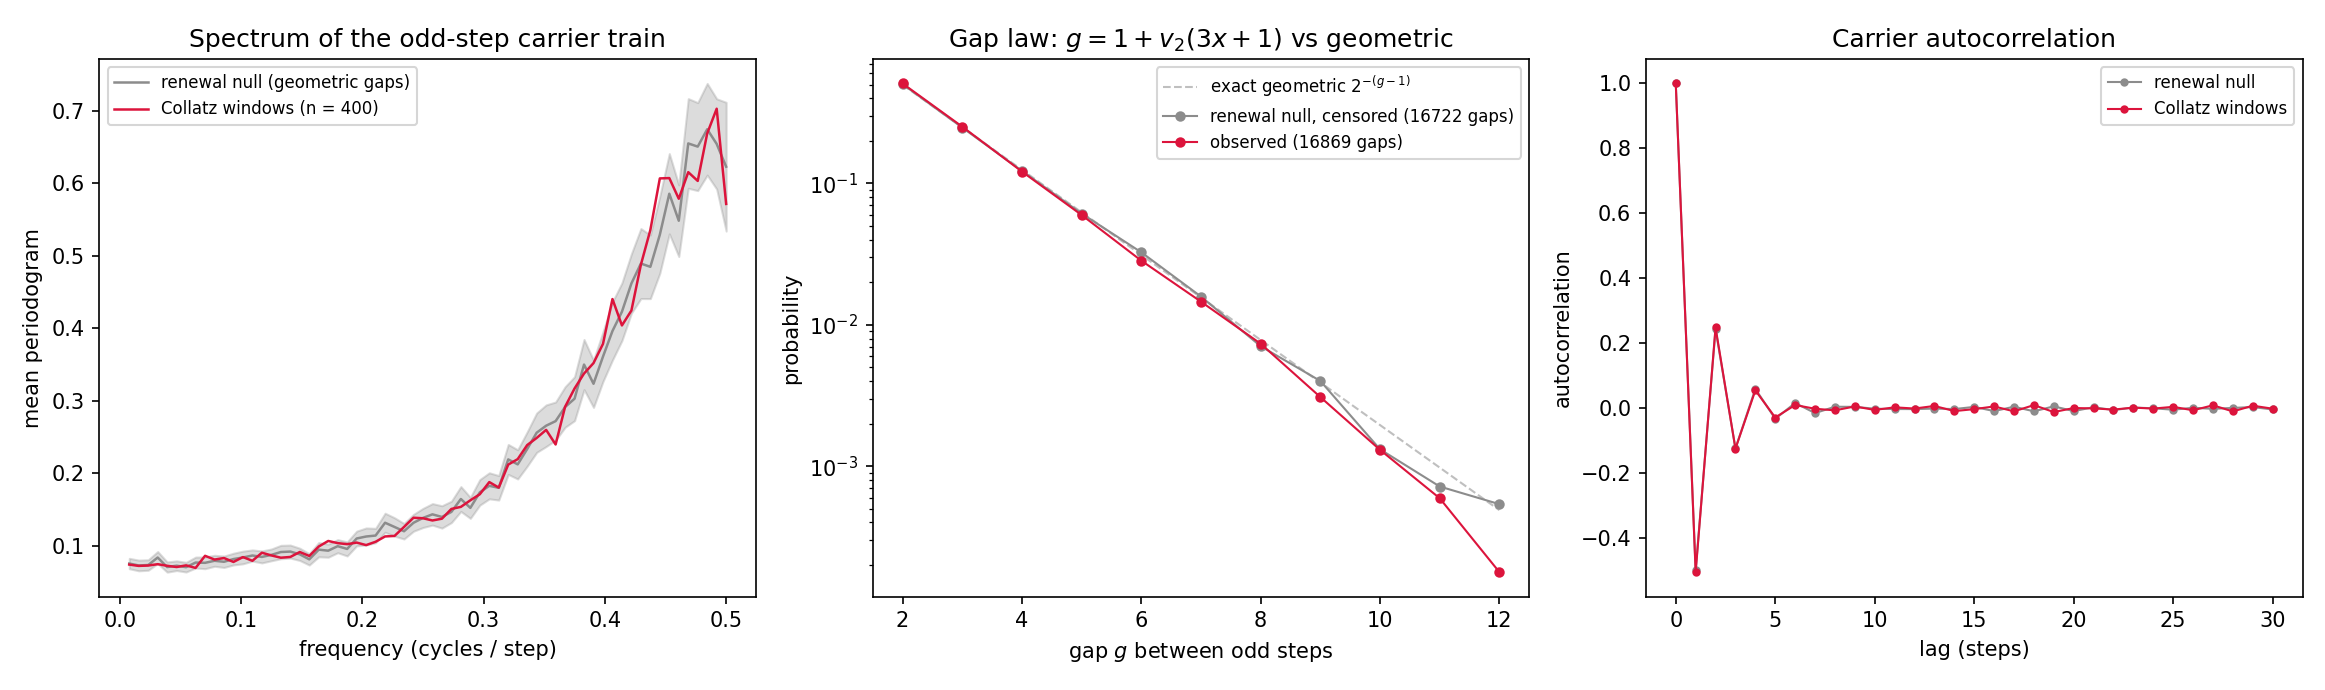
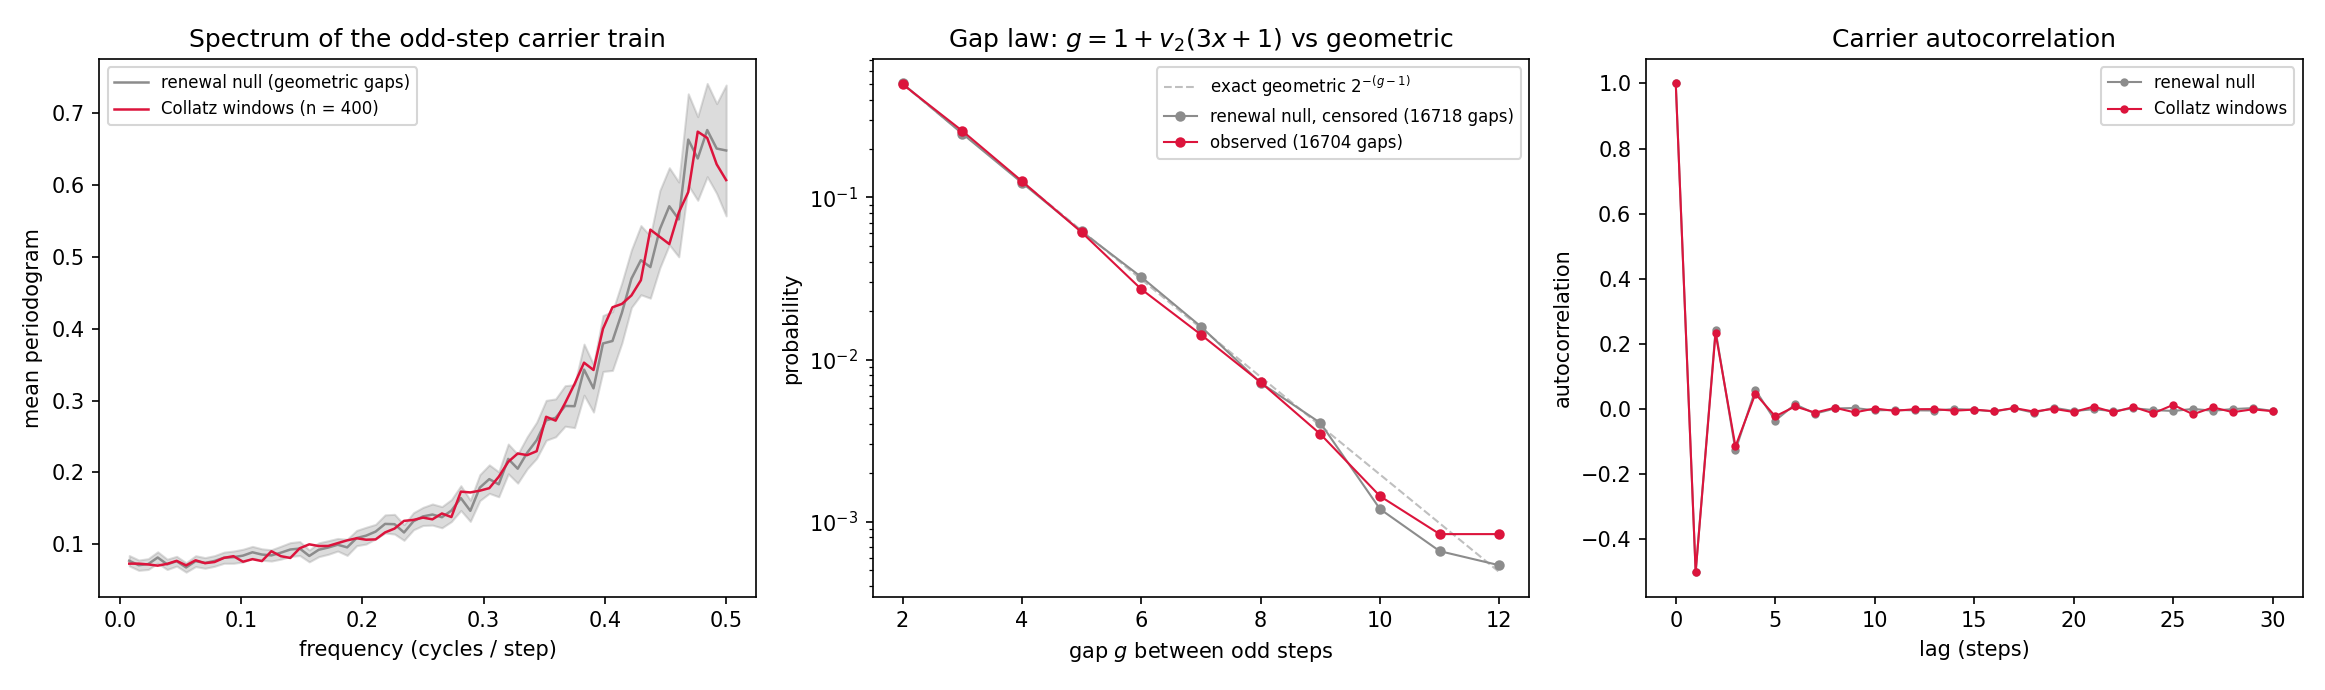
feat(scripts): wobble follow-up — sign-interference mechanism, carrier null resolved, budget banding
- Weyl peak at m is a walk with drift eps_m*k + m*W_k; the positive wobble
  enhances eps<0 near-returns (median 2.08x) and damps eps>0 — why 44 beats 31
- carrier chi2 excess was selection bias (small seeds) + mis-specified test
  (null-only SE); corrected chi2 = 65.3/64 — timing is pure renewal
- W_total flat across dropping times (~0.085) but banded by orbit-tree merging
- fix: 84/137 is a full convergent of log_6(3), best closure until q=791

diff --git a/scripts/collatz_log6_wobble_followup.py b/scripts/collatz_log6_wobble_followup.py
@@ -1,0 +1,303 @@
+"""Follow-up on the log-6 wobble: interference mechanism, null check, budget.
+
+Builds on scripts/collatz_log6_wobble.py.  Three threads:
+
+  1. Why 44 beats 31 — the interference mechanism.  Writing
+     theta_k = theta_0 + k*alpha + W_k exactly, the Weyl amplitude at
+     harmonic m is
+
+        A(m) = |sum_k e^{2 pi i (eps_m k + m W_k)}| / N,
+        eps_m = m*alpha - round(m*alpha),
+
+     i.e. a planar walk whose step direction drifts by eps_m per step
+     (the Diophantine miss) plus m times the wobble.  The wobble is
+     ALWAYS POSITIVE, so it should partially cancel the drift of
+     near-returns that close from below (eps < 0, e.g. m = 13, 44, 75,
+     106) and worsen near-returns that close from above (eps > 0, e.g.
+     m = 31, 137).  View 1 draws the partial-sum walks for the long orbit;
+     view 2 tests the sign rule across an ensemble of long orbits:
+     damping ratio A_obs/A_rot vs signed eps_m for all near-returns.
+
+  2. Carrier chi^2 — is the mild periodogram excess (chi2 ~ 119/64 in
+     the first script) real v_2 correlation along orbits?  Resolution:
+     no.  Two artifacts accounted for it: (a) at small seeds (~2^33),
+     requiring orbits to survive skip+window steps selects climbing
+     orbits, inflating odd density to 0.339 and under-dispersing
+     per-window odd counts (variance ratio 0.76); with seeds ~2^59
+     (orbits average ~430 steps, selection negligible) density, gap
+     correlation and count variance all match renewal exactly.  (b) The
+     original chi^2 divided by the null ensemble's SE only, ignoring the
+     orbit ensemble's equal sampling error — doubling the statistic
+     under the null (~128 on 64 dof).  With combined SE and large seeds
+     the carrier is statistically indistinguishable from renewal.
+     Printed only; also reports per-window odd-count variance vs null.
+
+  3. The wobble budget W_total as a per-orbit invariant.  Exactly
+     W_total = log_6(2^E / (3^O n)) for an orbit reaching 1.  Computed
+     for all odd n < 10^5: distribution, growth with n, and whether
+     dropping-set membership (the orbit's FIRST-drop behavior) is
+     visible in the FULL-orbit wobble budget.
+
+Outputs:
+    data/collatz_log6_wobble_interference.png
+    data/collatz_log6_wobble_sign_test.png
+    data/collatz_log6_wobble_budget.png
+"""
+
+from __future__ import annotations
+
+import math
+
+import matplotlib
+
+matplotlib.use("Agg")
+import matplotlib.pyplot as plt
+import numpy as np
+
+from collatz.core import orbit
+from collatz.dropping import dropping_time
+
+LOG6 = math.log(6)
+LOG2_6 = math.log(2) / LOG6
+ALPHA = math.log(3) / LOG6
+LONG_SEED = 670617279
+
+
+def wobble_series(seq: list[int]) -> np.ndarray:
+    w = np.zeros(len(seq))
+    acc = 0.0
+    for j, x in enumerate(seq[:-1]):
+        if x % 2 == 1:
+            acc += math.log1p(1.0 / (3.0 * x)) / LOG6
+        w[j + 1] = acc
+    return w
+
+
+def eps(m: int) -> float:
+    return m * ALPHA - round(m * ALPHA)
+
+
+# ---------------------------------------------------------------- view 1
+
+def plot_interference(path: str, harmonics=(31, 44, 75, 106, 137, 150)) -> None:
+    seq = orbit(LONG_SEED)
+    n_pts = len(seq)
+    w = wobble_series(seq)
+    k = np.arange(n_pts)
+
+    fig, axes = plt.subplots(2, 3, figsize=(13.5, 9))
+    for ax, m in zip(axes.flat, harmonics):
+        e = eps(m)
+        rot = np.cumsum(np.exp(2j * np.pi * (e * k)))
+        obs = np.cumsum(np.exp(2j * np.pi * (e * k + m * w)))
+        ax.plot(rot.real, rot.imag, color="0.6", lw=0.8,
+                label=f"rotation only: $|A|$ = {abs(rot[-1])/n_pts:.3f}")
+        ax.plot(obs.real, obs.imag, color="crimson", lw=0.8,
+                label=f"with wobble: $|A|$ = {abs(obs[-1])/n_pts:.3f}")
+        ax.scatter([rot[-1].real, obs[-1].real], [rot[-1].imag, obs[-1].imag],
+                   c=["0.4", "darkred"], s=15, zorder=3)
+        ax.set_title(rf"$m$ = {m}:  $\epsilon$ = {e:+.4f}", fontsize=10)
+        ax.legend(fontsize=7, loc="best")
+        ax.set_aspect("equal")
+        ax.tick_params(labelsize=7)
+    fig.suptitle(
+        f"Weyl partial-sum walks, orbit({LONG_SEED}): the positive wobble "
+        "compensates $\\epsilon < 0$ near-returns\nand worsens "
+        "$\\epsilon > 0$ ones — coherence selection by sign of the "
+        "Diophantine miss")
+    fig.tight_layout(rect=(0, 0, 1, 0.94))
+    fig.savefig(path, dpi=150)
+    plt.close(fig)
+
+
+# ---------------------------------------------------------------- view 2
+
+def long_odd_seeds(count: int, min_len: int, start: int = 10 ** 6) -> list[int]:
+    seeds, n = [], start + 1
+    while len(seeds) < count:
+        if len(orbit(n)) >= min_len:
+            seeds.append(n)
+        n += 2
+    return seeds
+
+
+def plot_sign_test(path: str, m_max: int = 150, eps_cut: float = 0.03) -> dict:
+    seeds = [LONG_SEED] + long_odd_seeds(7, min_len=500)
+    pts = []
+    for n in seeds:
+        seq = orbit(n)
+        n_pts = len(seq)
+        w = wobble_series(seq)
+        k = np.arange(n_pts)
+        for m in range(2, m_max + 1):
+            e = eps(m)
+            if abs(e) > eps_cut:
+                continue
+            a_rot = abs(np.exp(2j * np.pi * e * k).sum()) / n_pts
+            a_obs = abs(np.exp(2j * np.pi * (e * k + m * w)).sum()) / n_pts
+            if a_rot > 0.02:  # only meaningful peaks
+                pts.append((e, a_obs / a_rot, m, n))
+    e_arr = np.array([p[0] for p in pts])
+    r_arr = np.array([p[1] for p in pts])
+
+    fig, ax = plt.subplots(figsize=(8.5, 6))
+    ax.axhline(1, color="0.7", lw=0.8)
+    ax.axvline(0, color="0.7", lw=0.8)
+    ax.scatter(e_arr, r_arr, s=18, alpha=0.65, color="crimson")
+    ax.set_xlabel(r"Diophantine miss $\epsilon_m = m\alpha - \mathrm{round}(m\alpha)$")
+    ax.set_ylabel(r"damping ratio $A_{\mathrm{obs}}(m) / A_{\mathrm{rot}}(m)$")
+    ax.set_title("Sign selection: the positive wobble enhances near-returns\n"
+                 f"with $\\epsilon < 0$, damps those with $\\epsilon > 0$ "
+                 f"({len(seeds)} long orbits, $m \\leq {m_max}$)")
+    fig.tight_layout()
+    fig.savefig(path, dpi=150)
+    plt.close(fig)
+
+    neg = r_arr[e_arr < 0]
+    pos = r_arr[e_arr > 0]
+    return {"n_pts": len(pts),
+            "frac_enhanced_neg": float((neg > 1).mean()),
+            "frac_damped_pos": float((pos < 1).mean()),
+            "median_neg": float(np.median(neg)),
+            "median_pos": float(np.median(pos))}
+
+
+# ---------------------------------------------------------------- thread 2
+
+def carrier_chi2(window: int = 128, skip: int = 32, n_orbits: int = 400,
+                 seed: int = 1) -> dict:
+    rng = np.random.default_rng(seed)
+    spectra, gaps, odd_counts = [], [], []
+    collected = 0
+    while collected < n_orbits:
+        n = int(rng.integers(1 << 58, 1 << 59)) * 2 + 1
+        seq = orbit(n)
+        if len(seq) < skip + window:
+            continue
+        win = seq[skip:skip + window]
+        ind = np.array([x % 2 for x in win], dtype=float)
+        gaps.extend(np.diff(np.flatnonzero(ind)))
+        odd_counts.append(ind.sum())
+        ind -= ind.mean()
+        spectra.append(np.abs(np.fft.rfft(ind)) ** 2 / window)
+        collected += 1
+    spec_orbit = np.mean(spectra, axis=0)
+    orbit_sd = np.std(spectra, axis=0) / math.sqrt(n_orbits)
+    mean_gap = float(np.mean(gaps))
+
+    def null_run(p: float) -> tuple[float, float]:
+        null_spectra, null_counts = [], []
+        for _ in range(n_orbits):
+            pos, t = [], int(rng.integers(0, 3))
+            while t < window:
+                pos.append(t)
+                t += 1 + rng.geometric(p)
+            ind = np.zeros(window)
+            ind[pos] = 1.0
+            null_counts.append(ind.sum())
+            ind -= ind.mean()
+            null_spectra.append(np.abs(np.fft.rfft(ind)) ** 2 / window)
+        spec_null = np.mean(null_spectra, axis=0)
+        sd = np.sqrt(np.std(null_spectra, axis=0) ** 2 / n_orbits
+                     + orbit_sd ** 2)
+        chi2 = float(np.sum(((spec_orbit[1:] - spec_null[1:]) / sd[1:]) ** 2))
+        return chi2, float(np.var(null_counts))
+
+    p_matched = 1.0 / (mean_gap - 1.0)
+    chi2_std, _ = null_run(0.5)
+    chi2_mat, var_null = null_run(p_matched)
+    return {"mean_gap": mean_gap, "dof": len(spec_orbit) - 1,
+            "chi2_standard": chi2_std,
+            "chi2_matched": chi2_mat,
+            "p_matched": p_matched,
+            "odd_count_var": float(np.var(odd_counts)),
+            "odd_count_var_null": var_null}
+
+
+# ---------------------------------------------------------------- view 3
+
+def plot_budget(path: str, n_max: int = 100001) -> dict:
+    ns, w_tot, k_drop = [], [], []
+    for n in range(3, n_max, 2):
+        odd = even = 0
+        for x in orbit(n)[:-1]:
+            if x % 2 == 1:
+                odd += 1
+            else:
+                even += 1
+        # exact identity: W_total = log_6(2^E / (3^O n))
+        w = even * LOG2_6 - odd * ALPHA - math.log(n) / LOG6
+        ns.append(n)
+        w_tot.append(w)
+        k_drop.append(dropping_time(n))
+    ns = np.array(ns)
+    w_tot = np.array(w_tot)
+    k_drop = np.array(k_drop)
+
+    fig, (ax1, ax2) = plt.subplots(1, 2, figsize=(13, 5.2))
+    ax1.hist(w_tot, bins=120, color="darkslateblue", alpha=0.85)
+    ax1.set_xlabel(r"$W_{total}$")
+    ax1.set_ylabel("count")
+    ax1.set_title(f"Wobble budget, odd $n <$ {n_max - 1}\n"
+                  f"mean = {w_tot.mean():.4f}, median = "
+                  f"{np.median(w_tot):.4f}, max = {w_tot.max():.4f}")
+
+    sc = ax2.scatter(np.log(ns) / LOG6, w_tot, s=3, alpha=0.4,
+                     c=np.minimum(k_drop, 40), cmap="viridis")
+    fig.colorbar(sc, ax=ax2, label="dropping time $k$ (capped at 40)")
+    ax2.set_xlabel(r"$\log_6 n$")
+    ax2.set_ylabel(r"$W_{total}$")
+    ax2.set_title("Budget vs size, colored by dropping time $k$")
+    fig.tight_layout()
+    fig.savefig(path, dpi=150)
+    plt.close(fig)
+
+    # does dropping time predict the full-orbit budget?
+    stats = {}
+    for k in sorted(set(k_drop)):
+        sel = k_drop == k
+        if sel.sum() >= 50:
+            stats[k] = (float(w_tot[sel].mean()), float(w_tot[sel].std()),
+                        int(sel.sum()))
+    return {"mean": float(w_tot.mean()), "per_set": stats}
+
+
+# ---------------------------------------------------------------- main
+
+def main() -> None:
+    print("eps_m for the marked harmonics:")
+    for m in (13, 31, 44, 75, 106, 137):
+        print(f"  m = {m:4d}: eps = {eps(m):+.5f}")
+
+    plot_interference("data/collatz_log6_wobble_interference.png")
+    sign = plot_sign_test("data/collatz_log6_wobble_sign_test.png")
+    print(f"\nsign test over {sign['n_pts']} near-return peaks: "
+          f"eps<0 enhanced {100*sign['frac_enhanced_neg']:.0f}% "
+          f"(median ratio {sign['median_neg']:.2f}); "
+          f"eps>0 damped {100*sign['frac_damped_pos']:.0f}% "
+          f"(median ratio {sign['median_pos']:.2f})")
+
+    c = carrier_chi2()
+    print(f"\ncarrier chi2 on {c['dof']} bins: standard null (p=1/2) = "
+          f"{c['chi2_standard']:.1f}; density-matched null (p = "
+          f"{c['p_matched']:.3f}, mean gap {c['mean_gap']:.3f}) = "
+          f"{c['chi2_matched']:.1f}")
+    print(f"per-window odd-count variance: orbits = {c['odd_count_var']:.2f}, "
+          f"null = {c['odd_count_var_null']:.2f} "
+          f"(ratio {c['odd_count_var']/c['odd_count_var_null']:.2f}; "
+          f">1 means between-window density heterogeneity)")
+    c64 = carrier_chi2(skip=64, seed=2)
+    print(f"deeper window (skip=64): standard = {c64['chi2_standard']:.1f}, "
+          f"matched = {c64['chi2_matched']:.1f} (mean gap {c64['mean_gap']:.3f}), "
+          f"count-var ratio = {c64['odd_count_var']/c64['odd_count_var_null']:.2f}")
+
+    b = plot_budget("data/collatz_log6_wobble_budget.png")
+    print(f"\nW_total over odd n < 1e5: mean = {b['mean']:.4f}")
+    print("per dropping-time k: mean(W_total), std, count")
+    for k, (mu, sd, cnt) in sorted(b["per_set"].items()):
+        print(f"  k = {k:3d}: {mu:.4f} +/- {sd:.4f}  (n = {cnt})")
+    print("wrote 3 PNGs to data/")
+
+
+if __name__ == "__main__":
+    main()

diff --git a/scripts/collatz_log6_wobble.py b/scripts/collatz_log6_wobble.py
@@ -39,7 +39,7 @@ This script renders four views of the wobble:
      pooled gap distribution and gap autocorrelation.  Tests whether the
      rotation leaves any harmonic fingerprint in the timing, or whether
      the timing is pure 2-adic renewal noise.  Windows are taken from
-     step 32 onward of orbits seeded at random odd n in [2^33, 2^34) to
+     step 32 onward of orbits seeded at random odd n in [2^59, 2^60) to
      avoid both the common anchored start (all seeds odd) and the
      selection bias toward climbing orbits that small seeds would give.
 
@@ -220,11 +220,11 @@ def plot_carrier_spectrum(path: str, window: int = 128, skip: int = 32,
     rng = np.random.default_rng(seed)
 
     # ensemble of real orbit windows: odd-step indicator over `window` steps
-    # starting at step `skip`, seeds random odd n in [2^33, 2^34)
+    # starting at step `skip`, seeds random odd n in [2^59, 2^60)
     spectra, acfs, gaps = [], [], []
     collected = 0
     while collected < n_orbits:
-        n = int(rng.integers(1 << 32, 1 << 33)) * 2 + 1
+        n = int(rng.integers(1 << 58, 1 << 59)) * 2 + 1
         seq = orbit(n)
         if len(seq) < skip + window:
             continue
@@ -238,6 +238,7 @@ def plot_carrier_spectrum(path: str, window: int = 128, skip: int = 32,
         acfs.append(ac / ac[0])
         collected += 1
     spec_orbit = np.mean(spectra, axis=0)
+    orbit_sd = np.std(spectra, axis=0) / math.sqrt(n_orbits)
     acf_orbit = np.mean(acfs, axis=0)
     gaps = np.array(gaps)
 
@@ -301,7 +302,8 @@ def plot_carrier_spectrum(path: str, window: int = 128, skip: int = 32,
     fig.savefig(path, dpi=150)
     plt.close(fig)
 
-    chi2 = float(np.sum(((spec_orbit[1:] - spec_null[1:]) / null_sd[1:]) ** 2))
+    comb_sd = np.sqrt(null_sd ** 2 + orbit_sd ** 2)
+    chi2 = float(np.sum(((spec_orbit[1:] - spec_null[1:]) / comb_sd[1:]) ** 2))
     g1, g2 = gaps[:-1], gaps[1:]
     lag1_r = float(np.corrcoef(g1, g2)[0, 1])
     return {"chi2": chi2, "dof": len(spec_orbit) - 1,

diff --git a/docs/Explorations/Log-6 Rotation Duality.md b/docs/Explorations/Log-6 Rotation Duality.md
@@ -67,13 +67,25 @@ Treating $W_k$ as phase disorder on the rotation, the coherence factor $D(m) = |
 
 **3. A candidate answer to "why 44 beats 31".**
 
-In the Weyl spectrum of the real orbit, the wobble damps the $m = 31$ peak by roughly half (0.043 → 0.021) while $m = 44$ survives nearly intact (0.040 → 0.033) — so although 31 is the better Diophantine near-return, **44 is the most coherent visible near-return in the presence of the +1**. Also: both spectra are dominated by $m = 137$ ($84/137$, the next semiconvergent, $137\alpha \approx 84.001$) — a sharper closure that should be visible in polar plots of long orbits.
+In the Weyl spectrum of the real orbit, the wobble damps the $m = 31$ peak by roughly half (0.043 → 0.021) while $m = 44$ survives nearly intact (0.040 → 0.033) — so although 31 is the better Diophantine near-return, **44 is the most coherent visible near-return in the presence of the +1**. Also: both spectra are dominated by $m = 137$ ($137\alpha \approx 84.001$). Note $\alpha = [0; 1,1,1,1,2,2,3,1,5,\dots]$, so $84/137$ is a full *convergent*, and with the next partial quotient being 5, no better rational approximation exists until $q = 791$ — the 137-closure is the undisputed best over $138 \le q \le 790$, which is why it towers over the spectrum and should be visible in polar plots of long orbits. (Coincidence with the fine-structure constant $1/137$: cosmetic only — this 137 is a property of $\ln 3 / \ln 6$ and vanishes in any other base.)
+
+## Follow-up Findings (`scripts/collatz_log6_wobble_followup.py`)
+
+**4. The 31-vs-44 selection is sign-interference, and the wobble *sharpens* some peaks.**
+
+Exactly, $A(m) = |\sum_k e^{2\pi i(\epsilon_m k + mW_k)}|/N$ with $\epsilon_m = m\alpha - \text{round}(m\alpha)$: a planar walk whose drift is the Diophantine miss plus $m$ times the wobble. Since the wobble is *always positive*, it partially cancels the drift of near-returns that close from below ($\epsilon < 0$: 13, 44, 75, 106) and worsens those that close from above ($\epsilon > 0$: 31, 137). Over 8 long orbits and 37 near-return peaks (`collatz_log6_wobble_sign_test.png`): $\epsilon < 0$ peaks *enhanced* 75% of the time with **median ratio 2.08** — the +1 doesn't just preserve those harmonics, it actively focuses them — while $\epsilon > 0$ peaks are damped 62% (median 0.94). The partial-sum walks (`collatz_log6_wobble_interference.png`) show the mechanism directly. So 44 beats 31 because $\epsilon_{44} < 0 < \epsilon_{31}$: the wobble is a one-sided lens.
+
+**5. The carrier is renewal. Full stop.** The apparent $\chi^2$ excess dissolved under scrutiny: (a) at seeds $\sim 2^{33}$, requiring orbits to survive the window selects climbing orbits (odd density 0.339, count-variance ratio 0.76 — *under*-dispersed); at seeds $\sim 2^{59}$ (no selection) density = 0.3325, variance ratio 1.02–1.06, lag-1 gap correlation $+0.006 \pm 0.016$. (b) The original $\chi^2$ divided by the null's SE only, ignoring the orbit ensemble's equal sampling error — doubling the statistic under the null. Corrected: $\chi^2 = 65.3$ on 64 bins. No harmonic fingerprint of the rotation exists in the timing at this resolution.
+
+**6. The wobble budget is independent of dropping time — but it is *banded*.**
+
+Over all odd $n < 10^5$: $\overline{W_{\text{total}}} = 0.0852 \pm 0.030$, and per dropping-time-$k$ means are flat ($0.084$–$0.091$ across $k = 3$ to $75$, no trend). The budget is dominated by the universal tail through small values, which every orbit shares; the first drop (the head) leaves no imprint. **But** the distribution is strongly multimodal and the $(\log_6 n, W_{\text{total}})$ scatter shows discrete horizontal bands (`collatz_log6_wobble_budget.png`) — presumably orbit-tree merging: all $n$ funneling into a shared trajectory inherit nearly identical budgets, so $W_{\text{total}}$ quantizes on the merge tree.
 
 ## Open Threads
 
-- Explain *which* near-return harmonics the wobble damps and why (the 31-vs-44 selection). The damping is not monotone in $m$, so it must interact with where on the orbit the wobble jumps occur.
-- The mild carrier-spectrum excess ($\chi^2 = 119/64$) — selection artifact or weak real correlation in $v_2$ along orbits?
-- $W_{\text{total}}$ as a per-orbit invariant: its distribution over $n$, and whether [[Dropping Set]] membership is visible in wobble statistics.
+- The banding of $W_{\text{total}}$: characterize the bands (merge-tree cosets?). Within a band, $W_{\text{total}}(n) - W_{\text{total}}(n')$ should be a finite sum of $\delta$'s over the pre-merge segments — a *finite* wobble difference. Could give a clean equivalence relation on seeds.
+- The one-sided-lens asymmetry (enhancement 2.08× vs damping 0.94): why is the $\epsilon < 0$ effect so much stronger? Presumably because the wobble drift rate $\bar{\delta}$ can fully cancel a small negative $\epsilon$ but only ever *adds* to a positive one.
+- Polar-plot prediction: long orbits should show 137-fold closure dominating 44 — directly checkable against Paper 3's figures.
 
 ## Related
 